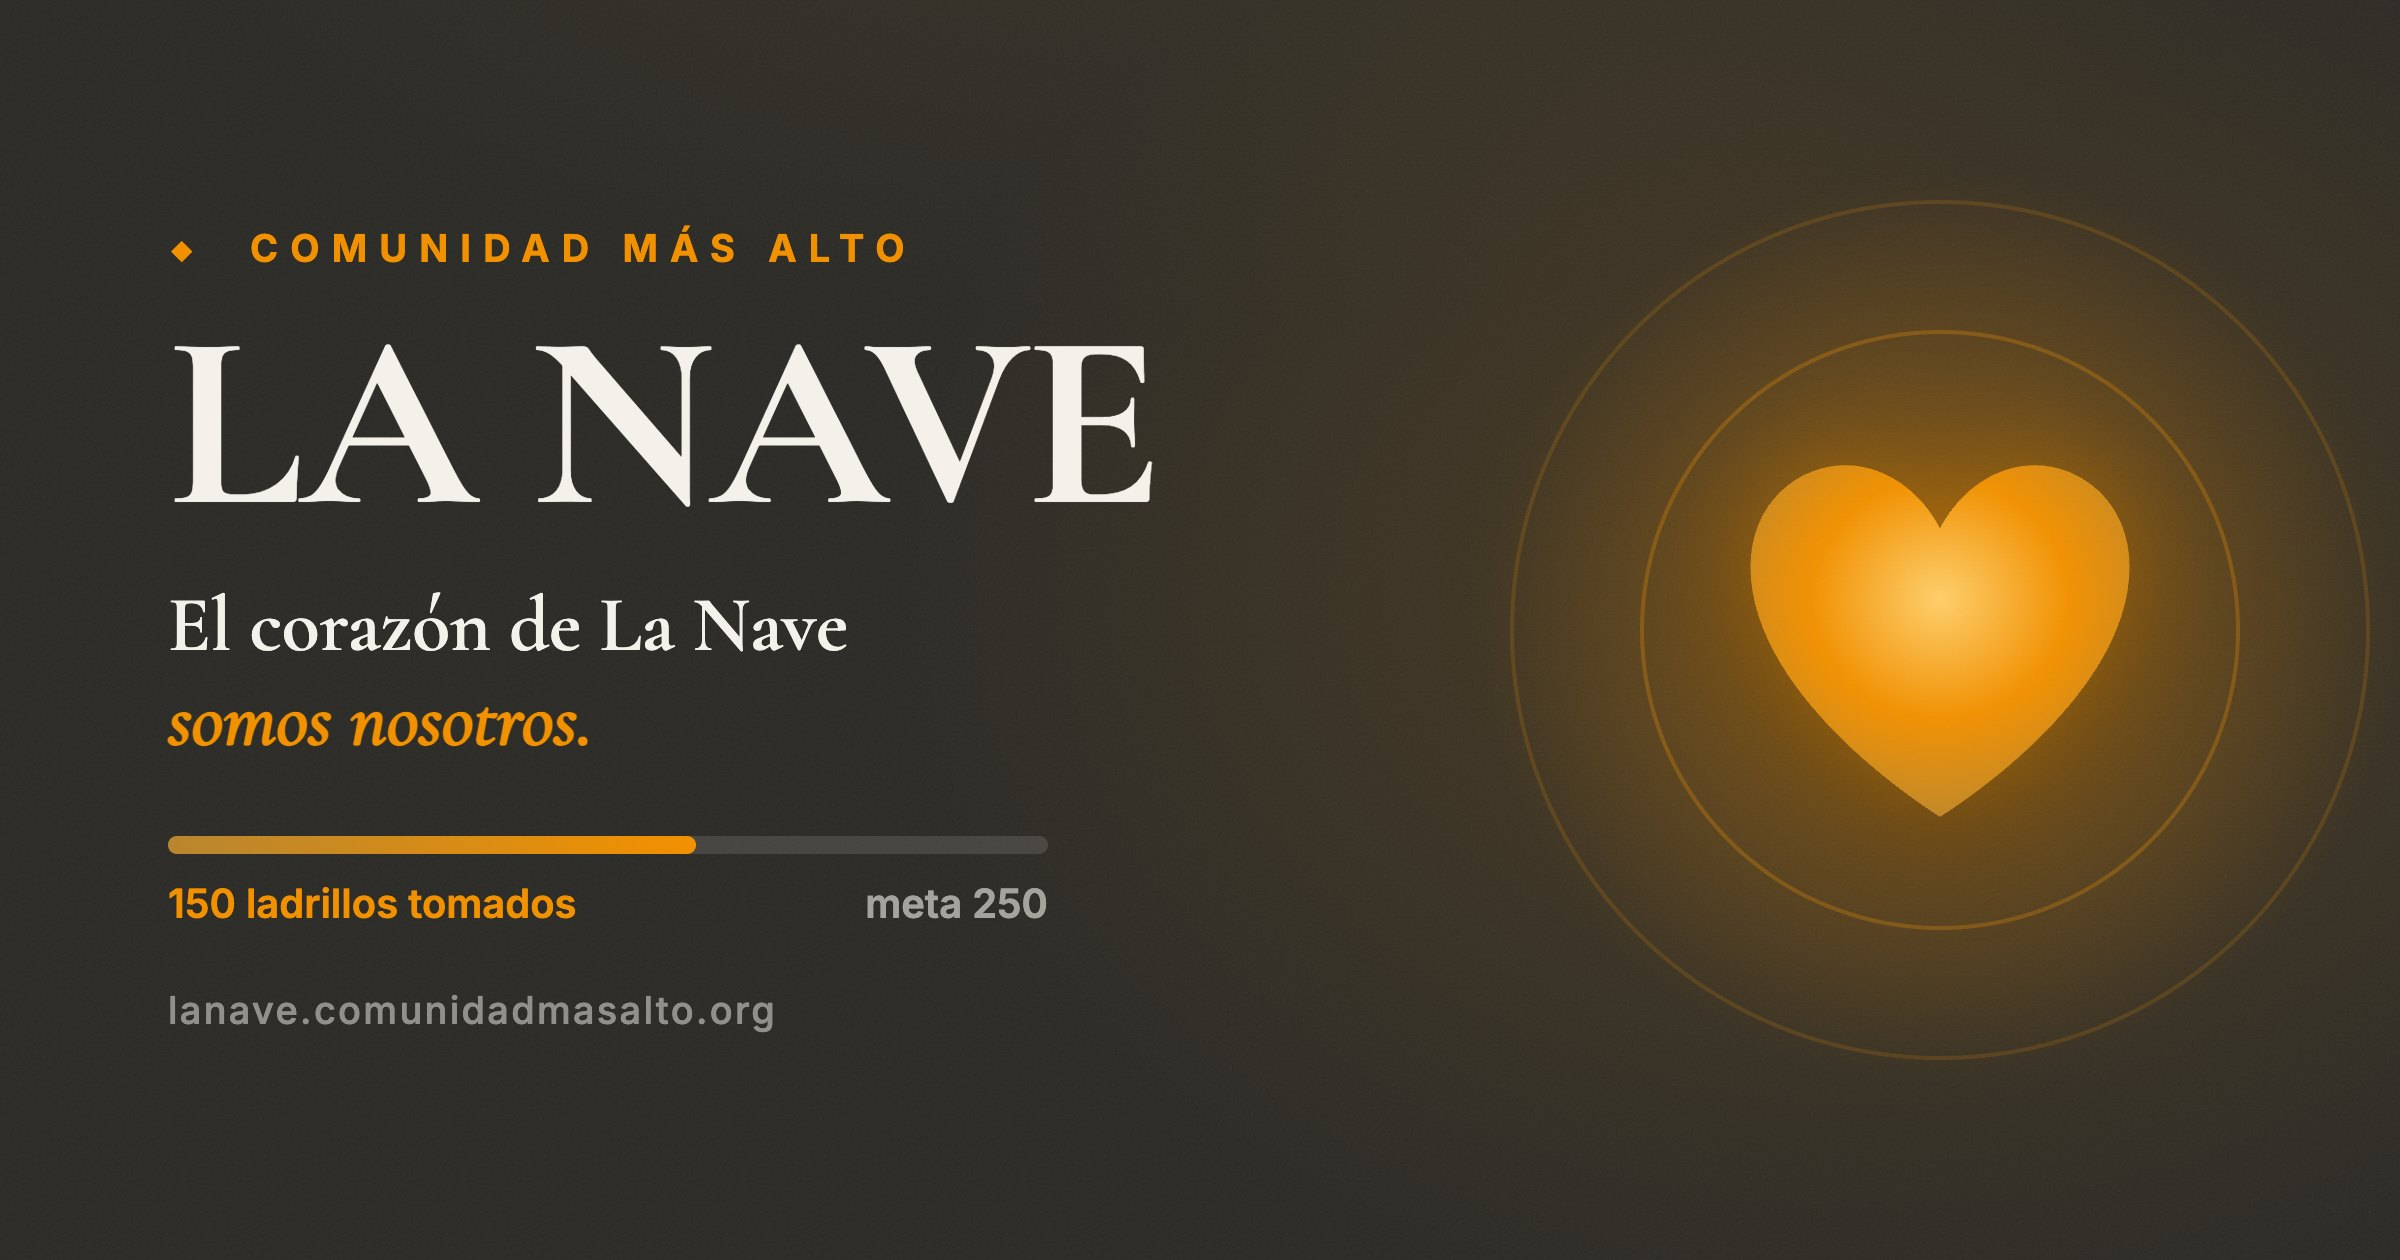
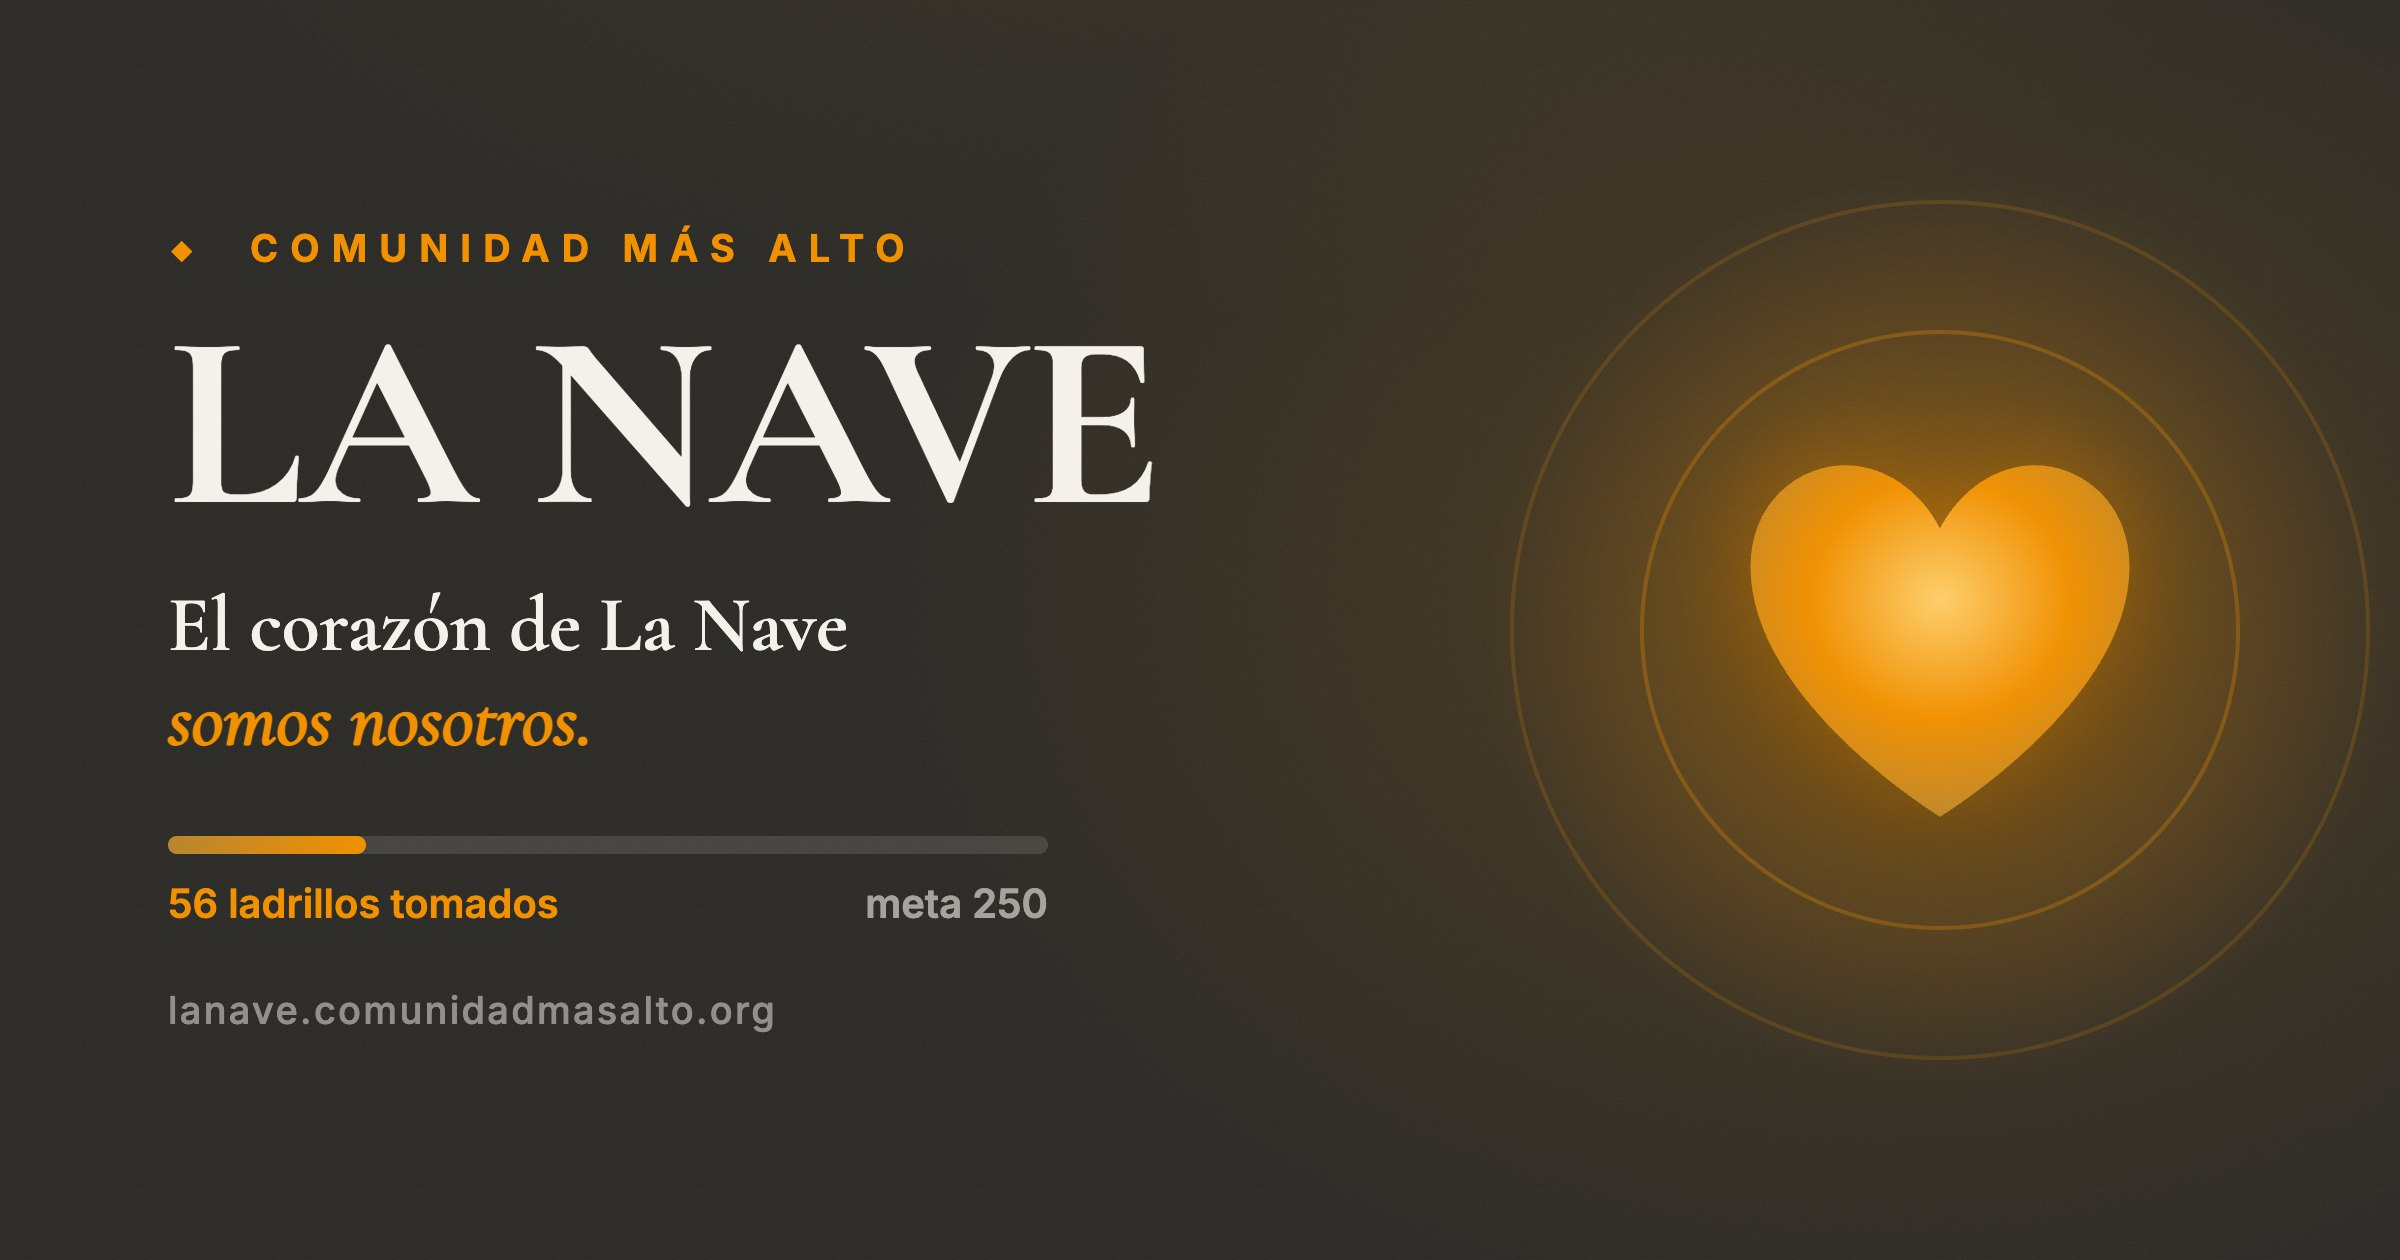
chore: corte al 19-jul — 56 ladrillos tomados
tomados 150 → 56, fechaCorte 2026-07-19. Todo se recalcula solo desde config:
web, muro (56 celdas), contadores, y la lámina de avance en directo (22.4%,
$215,600 levantado, 194 disponibles, ritmo 17). Actualizados también los
fallbacks no-JS del HTML y la miniatura de WhatsApp (og.jpg) a 56 / 22.4%.

Changed region(s): [[0.0625, 0.65, 0.3125, 0.7429]]

diff --git a/index.html b/index.html
@@ -161,7 +161,7 @@
         </div>
         <div class="hero-live hero-in" style="--d:1.45s">
           <div class="chips" role="status">
-            <p class="chip chip-live" id="js-chip-avance">150 de 250 ladrillos</p>
+            <p class="chip chip-live" id="js-chip-avance">56 de 250 ladrillos</p>
             <p class="chip" id="js-chip-cierre">cierre firme <strong>31 de julio</strong></p>
           </div>
           <div class="hero-track" aria-hidden="true"><span id="js-hero-fill"></span></div>
@@ -491,11 +491,11 @@
               <span class="hito" data-hito="90" style="left:90%"></span>
             </div>
             <div class="progress-caption">
-              <span id="js-progress-text">150 de 250 ladrillos · 60%</span>
+              <span id="js-progress-text">56 de 250 ladrillos · 22.4%</span>
               <span class="progress-close">Cierre 31 jul 2026</span>
             </div>
             <div class="progress-caption progress-pesos">
-              <span><strong data-levantado>$577,500</strong> levantados</span>
+              <span><strong data-levantado>$215,600</strong> levantados</span>
               <span class="progress-close">meta <strong data-meta-total>$962,500</strong></span>
             </div>
           </div>
@@ -503,7 +503,7 @@
         </div>
 
         <p class="muro-cta">
-          <a class="btn btn-lg" href="#tomar" id="js-muro-cta" data-cta="muro">Toma el ladrillo #151</a>
+          <a class="btn btn-lg" href="#tomar" id="js-muro-cta" data-cta="muro">Toma el ladrillo #57</a>
         </p>
         <div class="meta-causa" role="group" aria-label="La meta de la causa: 250 ladrillos por 3,850 pesos cada uno, un total de 962,500 pesos">
           <p class="meta-causa-label">La meta de la causa</p>

diff --git a/assets/config.js b/assets/config.js
@@ -4,8 +4,8 @@
 
 window.LANAVE = {
   // — Corte de avance (actualizar con cada corte real) —
-  tomados: 150,
-  fechaCorte: "2026-07-18",
+  tomados: 56,
+  fechaCorte: "2026-07-19",
 
   // — Constantes de campaña —
   // OJO: la meta define la fachada del Muro. Si cambia, hay que rearmar la